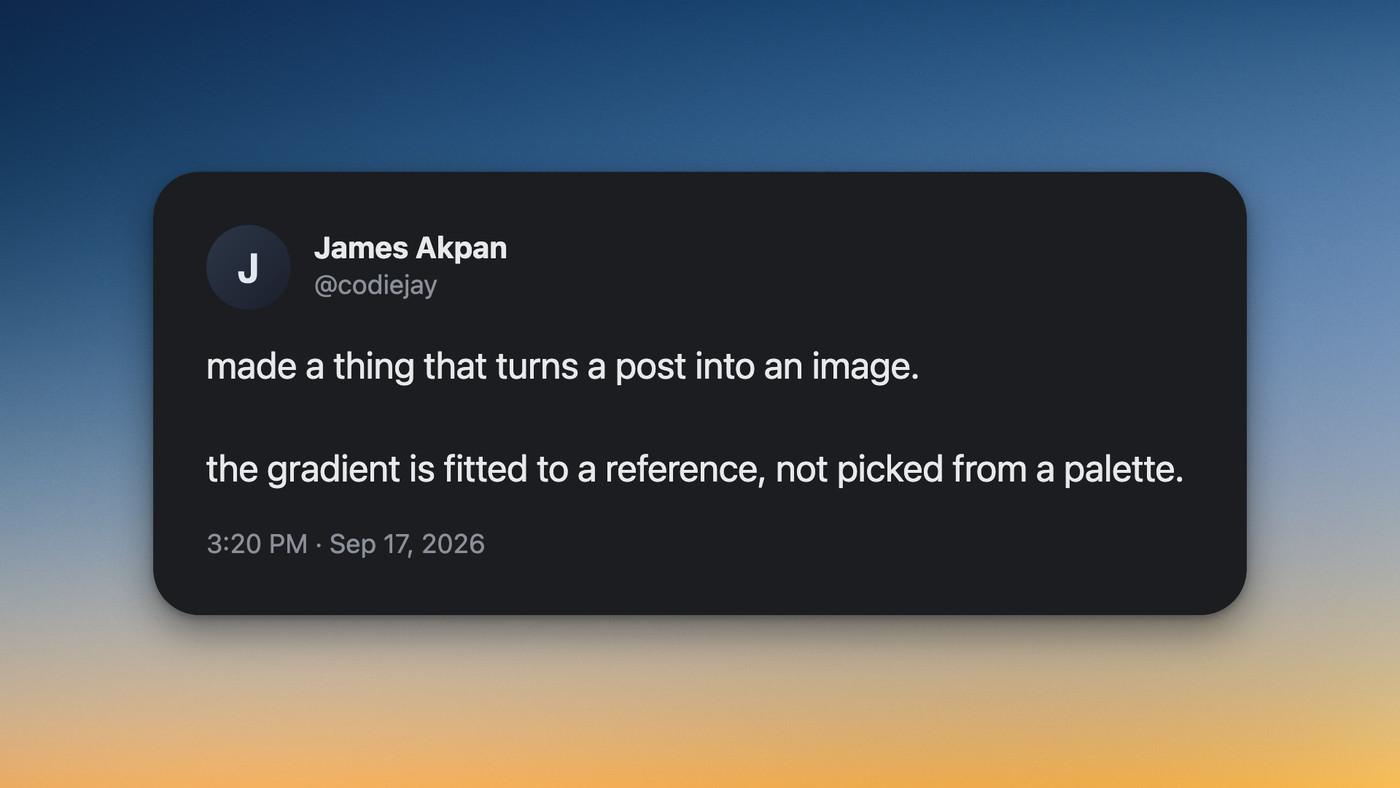
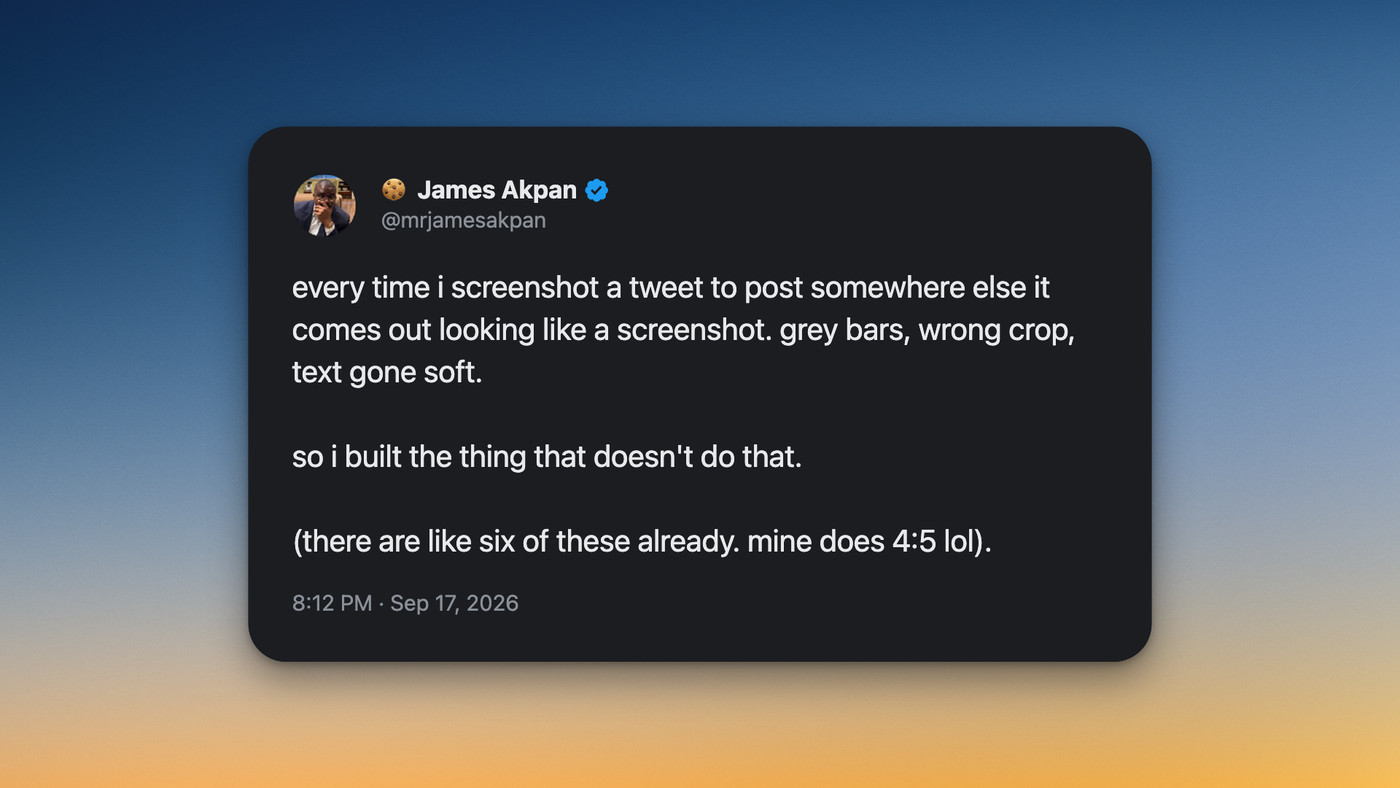
Rewrite the copy in my own voice
README follows the xtime register: tables instead of bold-label lists, no
em dashes, concrete numbers, shorter sentences. The mock-up post in the hero
and studio shots was written like a product tagline; it now reads like a post.
Tools-page draft reuses the xtime install steps verbatim so both pages sound
like one person.

Changed region(s): [[0.0921, 0.1523, 0.9214, 0.8832]]

diff --git a/dev/tools-entry.ts b/dev/tools-entry.ts
@@ -1,18 +1,16 @@
 /* ==================================================================
    DRAFT entry for newportfolio/data/tools.ts
 
-   This file is a draft parked here in the postcard repo. It is not
-   wired to anything. Paste the object into the `tools` array in
-   newportfolio/data/tools.ts, from a session started in newportfolio.
+   Parked here, wired to nothing. Paste the object into the `tools`
+   array in newportfolio/data/tools.ts, from a session started in
+   newportfolio.
 
-   The copy is a first pass. That file says the copy is James's and is
-   rendered verbatim, so rewrite anything that doesn't sound like you
-   before it ships.
+   Both links below are live: v1.0.0 is released and postcard.zip is
+   attached.
 
-   Blocked on two things that don't exist yet:
-     - github.com/codiejay/postcard
-     - a release with postcard.zip attached
-   Both links below 404 until then.
+   The install steps and the first two callouts are lifted verbatim
+   from the xtime entry so the two tool pages read as one voice. The
+   blurb and description are a draft. Rewrite anything that isn't you.
    ================================================================== */
 
 {
@@ -24,20 +22,20 @@
     { label: "Price", value: "Free" },
   ],
   blurb: [
-    "Turns a post on X into an image you'd actually post.",
-    "Instagram sizes, exact to the pixel.",
+    "Turns a post on X into an image, not a screenshot of one.",
+    "Exports at the exact size Instagram wants, so it stops chewing the file.",
   ],
   description: [
-    "Screenshotting a post for Instagram always looked like a screenshot. Wrong crop, grey bars down the side, text softened by the time it came out the other end.",
-    "A button sits at the end of every post's action row, after share. Click it and the post opens in a studio tab, on a gradient, ready to go.",
-    "Pick 1:1, 4:5, 9:16 or 16:9 and it exports at 1080×1080, 1080×1350, 1080×1920 or 1920×1080. Instagram recompresses anything that isn't one of its own sizes, and that's where the mush comes from. Hit the size exactly and it leaves the file alone.",
-    "The default gradient isn't a preset. I fitted a polynomial colour field to an image I liked, one polynomial per colour channel, and it reproduces the original to within 1.6 of 255. It's diagonal and slightly curved, which no single linear gradient can do, and because it's defined on normalised coordinates it re-flows when you switch from a wide frame to a tall one instead of stretching.",
-    "No backend, no account, no telemetry. It reads the post out of the page, pulls the avatar and photos at full resolution so the export is sharp, and draws the whole thing on your machine.",
+    "I kept screenshotting posts to put on Instagram and they kept coming out looking like screenshots. Grey bars, wrong crop, text gone soft. So I built the thing that doesn't do that.",
+    "A button sits at the end of every post's action row, after share. Click it and the post opens in a studio tab on a gradient. Pick a size, download it.",
+    "1:1, 4:5, 9:16 and 16:9 export at 1080×1080, 1080×1350, 1080×1920 and 1920×1080. That's the whole reason those numbers are hard-coded. Instagram recompresses anything that isn't one of its own sizes, and that's where the mush comes from.",
+    "The default gradient isn't a list of colour stops. I fitted a polynomial to a reference image, one per colour channel, and it lands within 1.6 of 255 of the original. The best single linear gradient I could get was off by 7.4, and you can see that one. It also re-flows properly going from a wide frame to a tall one instead of stretching.",
+    "No backend, no AI, no account, no telemetry. It reads the post out of the page, goes back for the avatar and photos at full resolution, and draws the whole thing on your machine.",
   ],
   /* NOTE — same rule as xtime. /releases/latest/ resolves the RELEASE
      automatically, but the asset filename after it is literal. Every
-     release has to attach a zip still named postcard.zip or this 404s.
-     dev/package.sh in the postcard repo hard-codes that name. */
+     release has to attach a zip still named postcard.zip, or this
+     404s. dev/package.sh in the postcard repo hard-codes that name. */
   download:
     "https://github.com/codiejay/postcard/releases/latest/download/postcard.zip",
   repo: "https://github.com/codiejay/postcard",

diff --git a/README.md b/README.md
@@ -1,123 +1,148 @@
 # Postcard
 
-Turn a post on X into an image you can put on Instagram.
+A Chrome extension that turns a post on X into an image you can put on
+Instagram, at the exact pixel size Instagram wants so it stops chewing the file.
 
 ![A post rendered on the Dusk gradient](docs/hero.jpg)
 
-Adds one button to the end of every post's action row. Click it and the post
-opens in a studio tab, sitting on a gradient, ready to download at the size you
-need.
+One button, last in the post's action row, after share. Click it and the post
+opens in a studio tab on a gradient. Pick a size, download it.
+
+The default gradient, Dusk, is fitted to a reference image rather than picked
+out of a palette. More on that below, because it's the part I actually enjoyed.
+
+---
 
 ## Install
 
-1. Download `postcard.zip` from the [latest release](https://github.com/codiejay/postcard/releases/latest/download/postcard.zip) and unzip it somewhere permanent, not Downloads.
-2. Open `chrome://extensions`
-3. Turn on Developer mode, top right.
-4. Load unpacked, then pick the folder you unzipped.
+Not on the Chrome Web Store. Four steps:
 
-Keep that folder where it is. Chrome loads the extension from that exact path,
-so moving it breaks the install. It isn't on the Chrome Web Store, so there are
-no auto-updates.
+1. Grab [`postcard.zip`](https://github.com/codiejay/postcard/releases/latest/download/postcard.zip)
+   from Releases and unzip it.
+2. Open `chrome://extensions`.
+3. Turn on **Developer mode** (top right).
+4. **Load unpacked** → pick the unzipped folder.
+
+**Leave that folder where it is.** Chrome loads the extension from the path you
+picked. Move it or delete it and the extension goes with it. Put it somewhere
+you won't tidy up, not in Downloads.
+
+No auto-updates either. New version means downloading it again and hitting the
+refresh icon on the card.
+
+---
 
 ## The studio
 
 ![The studio, with format, background, card and margin controls](docs/studio.jpg)
 
-The button reads the post out of the page: name, handle, verified badge, text,
-emoji, timestamp, view count, and up to four photos. Avatars and photos are
-refetched at full resolution, so the export is sharp rather than a scaled-up
-thumbnail.
+The button reads the post straight out of the page: name, handle, verified
+badge, text, emoji, timestamp, view count, and up to four photos. It then goes
+back for the avatar and the photos at full resolution, so what you export is the
+real image and not a blown-up thumbnail.
 
-- **Format** — Auto, 1:1, 4:5, 9:16, 16:9.
-- **Background** — six gradients. Dusk is the default.
-- **Card** — Dim, Black, or Light.
-- **Margin** — how much gradient sits around the card.
+| Control | Options |
+|---|---|
+| Format | Auto, 1:1, 4:5, 9:16, 16:9 |
+| Background | six gradients, Dusk by default |
+| Card | Dim, Black, Light |
+| Margin | how much gradient sits around the card |
 
-Download saves a PNG. Copy puts it on the clipboard. ⌘S and ⌘C do the same.
-Your last choices are remembered for the next post.
+Download saves a PNG. Copy puts it on the clipboard. `⌘S` and `⌘C` do the same.
+Whatever you picked last time is what loads next time.
 
-## Formats
+---
+
+## Sizes
 
 ![The same post at 1:1, 4:5, 9:16 and 16:9](docs/formats.webp)
 
 | Format | Exports at | For |
-| --- | --- | --- |
+|---|---|---|
 | 1:1 | 1080 × 1080 | Instagram post |
 | 4:5 | 1080 × 1350 | Instagram portrait |
 | 9:16 | 1080 × 1920 | Story and Reels |
 | 16:9 | 1920 × 1080 | X and LinkedIn |
 | Auto | fits the post | anywhere |
 
-Instagram recompresses anything that isn't one of its own sizes, which is where
-the mush comes from. Hitting the size exactly leaves the file alone.
+This is the whole reason the sizes are hard-coded. Instagram recompresses
+anything that isn't one of its own sizes, and that's where the mush comes from.
+Hit the number exactly and it leaves the file alone.
+
+---
 
 ## Samples
 
 ![One post rendered five ways](docs/samples.webp)
 
-The same post, different settings. Dusk at 9:16 and 1:1, Paper with a light
-card, Slate with a black card at 16:9, and Plum at 4:5. The 9:16 one is a real
-export, made with the extension and not touched afterwards.
+Same post, five settings. Dusk at 9:16 and 1:1, Paper with a light card, Slate
+with a black card at 16:9, Plum at 4:5. The 9:16 one came straight out of the
+extension and nothing happened to it afterwards.
 
-## About the Dusk gradient
+---
 
-Dusk is not a hand-written set of colour stops. It is a degree-4 polynomial
-colour field, one polynomial per channel, fitted to a reference image over
-normalised coordinates:
+## Dusk
+
+Dusk isn't a list of colour stops. It's a degree-4 polynomial colour field, one
+polynomial per channel, fitted to a reference image over normalised coordinates:
 
 ```
 channel(u, v) = Σ c · u^i · v^j     for i + j ≤ 4
 ```
 
-Mean error against the source is 1.6 out of 255, which is below what an eye can
-see. The coefficients live in `studio/backgrounds.js`.
+Mean error against the source is **1.6 out of 255**, which is under what an eye
+resolves. The coefficients sit in `studio/backgrounds.js`.
 
-Fitting it this way rather than eyeballing stops buys two things. The gradient
-is diagonal and slightly curved, which no single linear gradient reproduces. And
-because the field is defined on normalised coordinates, it re-flows correctly
-from a wide 16:9 frame to a tall 9:16 one instead of being stretched.
+Two reasons to fit it instead of eyeballing stops. The gradient is diagonal
+*and* slightly curved, and the best single linear gradient I could fit was off
+by 7.4, which you can see. And because the field lives on normalised
+coordinates, it re-flows when you switch a wide 16:9 frame to a tall 9:16 one
+instead of stretching.
 
-A little grain is composited on top. The source image has it, and it keeps large
-exports from banding.
+There's grain over the top at 3.5% opacity. The source image has it, and it
+stops a 1080 × 1920 export from banding.
 
-## How it renders
+---
 
-There is one renderer, `studio/render.js`, and it draws to a canvas. The preview
-is that canvas at screen scale; the download is the same call at export scale.
-There is no second code path, so the file you get is the thing you were looking
-at.
+## One renderer
 
-## Files
+`studio/render.js` draws to a canvas. The preview is that canvas at screen
+scale. The download is the same call at export scale. There is no second code
+path, so the file you get is the thing you were looking at.
 
 ```
 manifest.json
-src/content.js       injects the button, reads the post
-src/content.css      button styling, matched to X's action row
-src/background.js    fetches images, stashes the post, opens the studio
-studio/render.js     canvas renderer: layout, text wrapping, media grids
+src/content.js         injects the button, reads the post
+src/content.css        button styling, matched to X's action row
+src/background.js      fetches images, stashes the post, opens the studio
+studio/render.js       layout, text wrapping, media grids, the draw
 studio/backgrounds.js  the gradients and the fitted colour field
-studio/studio.js     controls, export, settings
-dev/package.sh       builds the release zip
+studio/studio.js       controls, export, settings
+dev/package.sh         builds the release zip
 ```
 
-## Building a release
+---
+
+## Cutting a release
 
 ```
 ./dev/package.sh
 ```
 
-The asset is always named `postcard.zip`, never versioned. GitHub's permanent
-link is `/releases/latest/download/postcard.zip`, which resolves by filename, so
-a versioned asset silently breaks every link pointing at it. The version lives
-in the manifest and the release tag.
+The asset is always called `postcard.zip` and never carries a version. GitHub's
+permanent link is `/releases/latest/download/postcard.zip`, which resolves the
+release but takes the filename literally, so a versioned asset quietly breaks
+every link pointing at it. The version lives in the manifest and the tag.
 
-## Known gaps
+---
 
-- Quote tweets, polls, and threads are not rendered. A quoted post is dropped.
-- Videos use their poster frame.
-- View counts only exist on a post's own page, not in the timeline.
+## What it doesn't do
 
-## Licence
+- Quote tweets, polls and threads. A quoted post gets dropped.
+- Video. It uses the poster frame.
+- View counts in the timeline. X only renders those on the post's own page.
 
-MIT. The post in the samples is real. The one in the hero and studio shots is a
-mock-up, made with the tool.
+---
+
+MIT. The post in the samples is real. The one in the hero and the studio shot is
+a mock-up, made with the extension.
